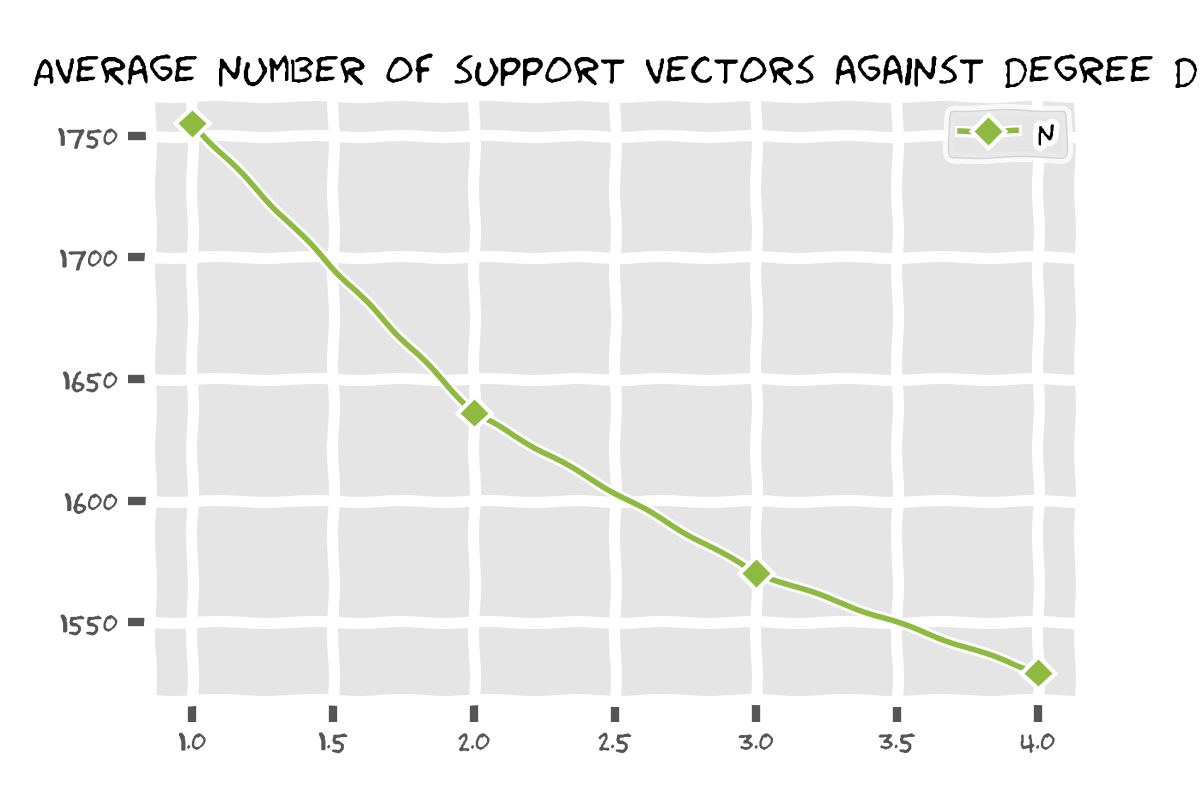
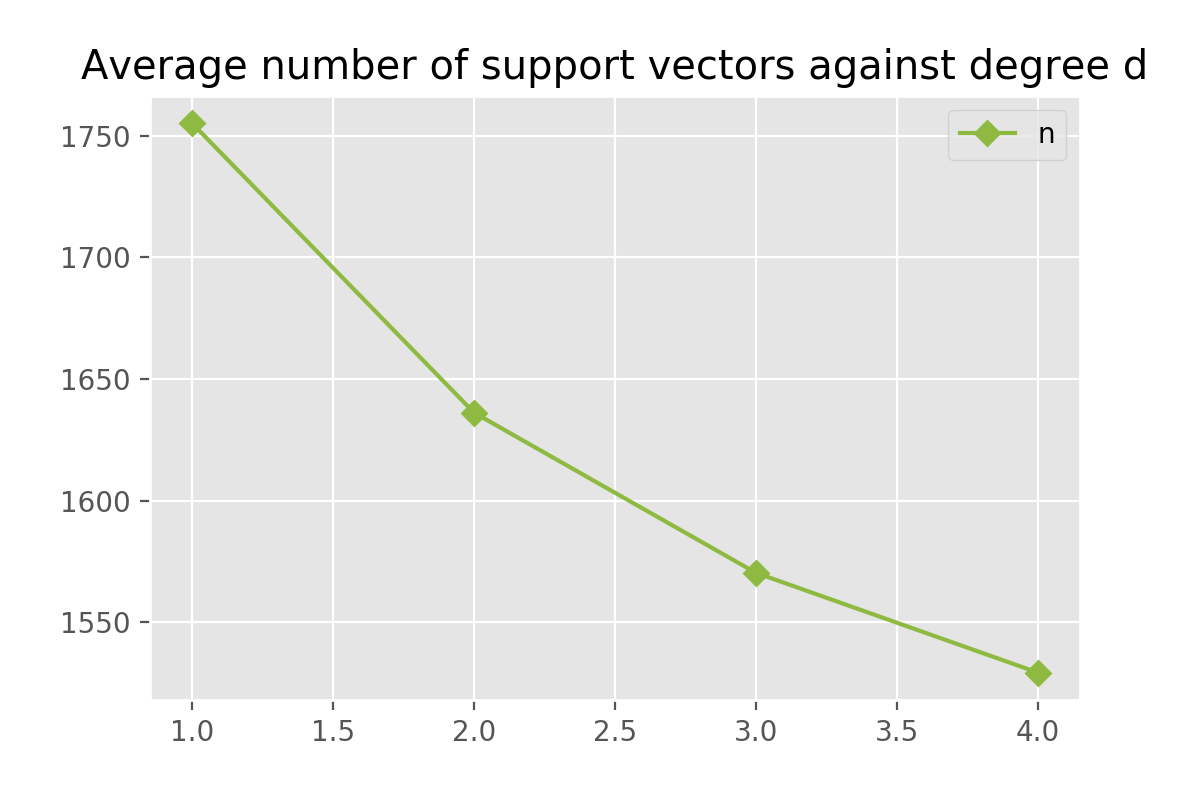
update results

diff --git a/sklearn_svm.py b/sklearn_svm.py
@@ -46,10 +46,10 @@ def error_rate(true_labels, class_labels):
 def cross_validation_and_test(features, labels, c, d, testing_features, true_labels, ker):
     print('Generating svc...')
     clf = sksvm.SVC(kernel=ker, C=c, degree=d)
-    print('Fitting the model...')
-    clf.fit(features, labels)
     print('Behaving cross validation...')
     scores = cross_val_score(clf, features, labels, cv=10)
+    print('Fitting the model...')
+    clf.fit(features, labels)
     support_vecs = clf.support_vectors_
     print('Computing test error...')
     error = error_rate(true_labels, clf.predict(testing_features))
@@ -174,17 +174,17 @@ def kernel_G4():
 
 
 if __name__ == '__main__':
-    plt.xkcd()
+    # plt.xkcd()
     features, labels = fetch_training_data('spambase_train_parsed.scale')
     testing_features, true_labels = fetch_testing_data(
         'spambase_test_parsed.scale')
     k_range = [-16, -8, -4, -2, -1, 0, 1, 2, 4, 8, 16]
     # validation_with_parameters(features, labels, k_range, testing_features,
     # true_labels)
-    G4_kernel = kernel_G4()
-    validation_with_parameters(
-        features, labels, k_range, testing_features, true_labels, ker=G4_kernel)
-    # plot_validation('cross_val_array_data_new.npy')
+    # G4_kernel = kernel_G4()
+    # validation_with_parameters(
+    #     features, labels, k_range, testing_features, true_labels, ker=G4_kernel)
+    plot_validation('cross_val_array_data_new.npy')
     # plot_validation('cross_val_array_kernel_data_new.npy')
     # cross_val_array = np.load('cross_val_array_data_new.npy')
     # print(cross_val_array)
@@ -194,9 +194,9 @@ if __name__ == '__main__':
     #     if cross_val_array[i, 0] == minimum:
     #         print(i + 1)
     # The best performance is at d=2, k=16
-    # plot_against_d('cross_val_array_data_new.npy',
-                   # 'test_error_array_data_new.npy')
+    plot_against_d('cross_val_array_data_new.npy',
+                   'test_error_array_data_new.npy')
     # plot_against_d('cross_val_array_kernel_data_new.npy',
     #    'test_error_array_kernel_data_new.npy')
-    # plot_sv('support_vectors_data_new.npy')
+    plot_sv('support_vectors_data_new.npy')
     # plot_sv('support_vectors_kernel_data_new.npy')
